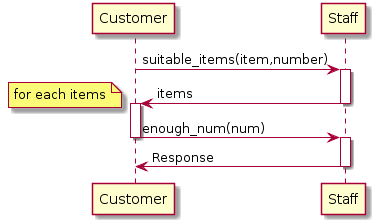
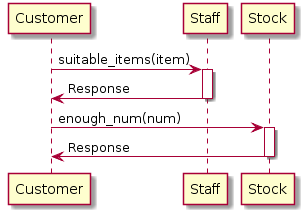
Fix typo

diff --git a/オブジェクト指向設計/chapter-4/chapter-4.md b/オブジェクト指向設計/chapter-4/chapter-4.md
@@ -39,7 +39,7 @@
 しかし、ドメインオブジェクトに囚われ過ぎると無理な設計になりがち。重要なのはオブジェクト間でどのような**メッセージ**が交わされるか  
 
 ここでは、設計の手法として**シーケンス図**を使用する。（UMLというオブジェクト指向のモデリング言語の一種）
-この図では客が店番にorderメッセージを送り、レスポンスを得る。  
+この図では客が店番にsuitable_itemsメッセージを送り、レスポンスを得る。  
 ![図１](https://github.com/Kanezoh/TIL/blob/master/images/%E3%82%AA%E3%83%96%E3%82%B8%E3%82%A7%E3%82%AF%E3%83%88%E6%8C%87%E5%90%91%E8%A8%AD%E8%A8%88/chapter-4/image4-1.png)  
 
 さて、ここではStaffクラスが注文に関わる全ての処理を行なっている。店の取扱商品から要求されるitemの一覧を返し、さらにその数量が注文数に足るかも調べている。ここでの疑問は「Staffが在庫を調べる責任まで追うべきだろうか？」。客がsuitable_itemsを送るのは理にかなっている。  
